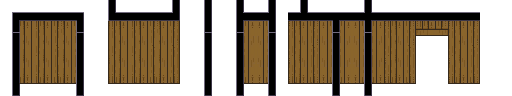
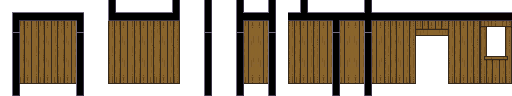
add pillars; update ruin walls; add rough door; add wooden wall window

Changed region(s): [[0.9375, 0.125, 1.0, 0.875]]

diff --git a/data/walls.py b/data/walls.py
@@ -60,9 +60,12 @@ def do_wall_parts(basename, image, plane_image, door_image=None):
 def init():
     structures = loader('structures')
 
-    wall = do_wall_parts('wood_wall',
-            structures('wood_wall.png'), structures('wood_wall-planemap.png'),
-            door_image=structures('door.png'))
+    image = structures('wood_wall.png')
+    planemap = structures('wood_wall-planemap.png')
+    wall = do_wall_parts('wood_wall', image, planemap,
+            door_image=structures('door-rough.png'))
+    mk_solid_structure('wood_wall/window/v0', image, (1, 1, 2), base=(15, 0),
+            plane_image=planemap)
 
     mk_structure_item(wall['wood_wall/edge/horiz'], 'wood_wall', 'Wooden Wall', (0, 0)) \
         .recipe('anvil', {'wood': 5})

diff --git a/data/misc.py b/data/misc.py
@@ -50,3 +50,15 @@ def init():
     sign = mk_solid_structure('sign', structures('sign.png'), (1, 1, 1))
     mk_structure_item(sign, 'sign', 'Sign') \
             .recipe('anvil', {'wood': 5})
+
+
+    image = structures('pillar.png')
+    planemap = structures('pillar-planemap.png')
+    pillar = mk_solid_structure('pillar/wood', image, (1, 1, 2), base=(0, 0),
+                plane_image=planemap)
+    mk_structure_item(pillar, 'wood_pillar', 'Wooden Pillar') \
+            .recipe('anvil', {'wood': 5})
+    pillar = mk_solid_structure('pillar/stone', image, (1, 1, 2), base=(1, 0),
+                plane_image=planemap)
+    mk_structure_item(pillar, 'stone_pillar', 'Stone Pillar') \
+            .recipe('anvil', {'stone': 5})
